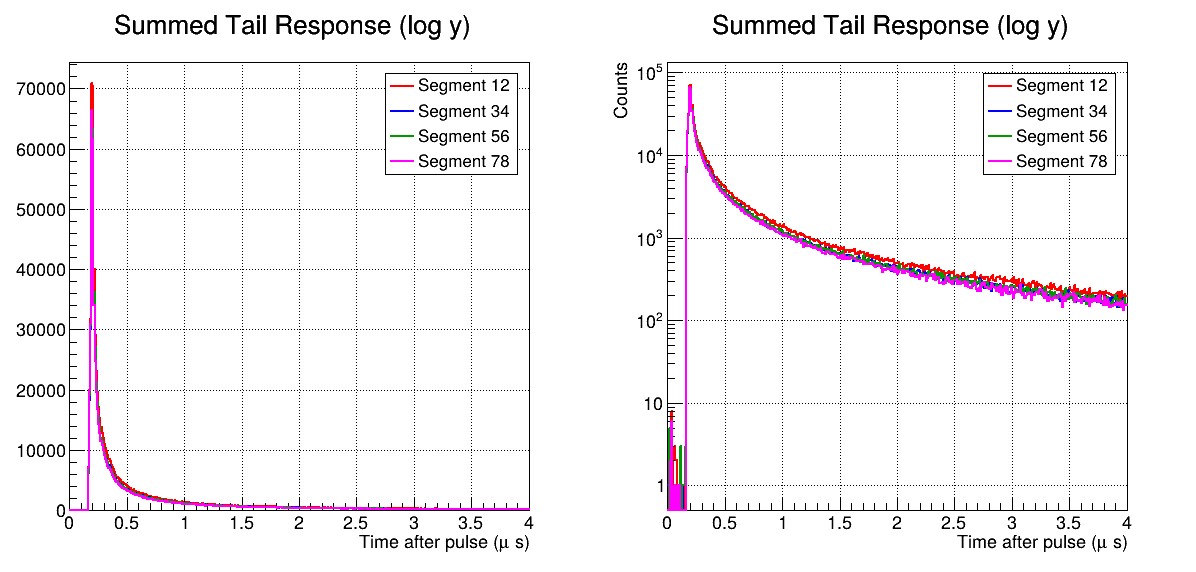
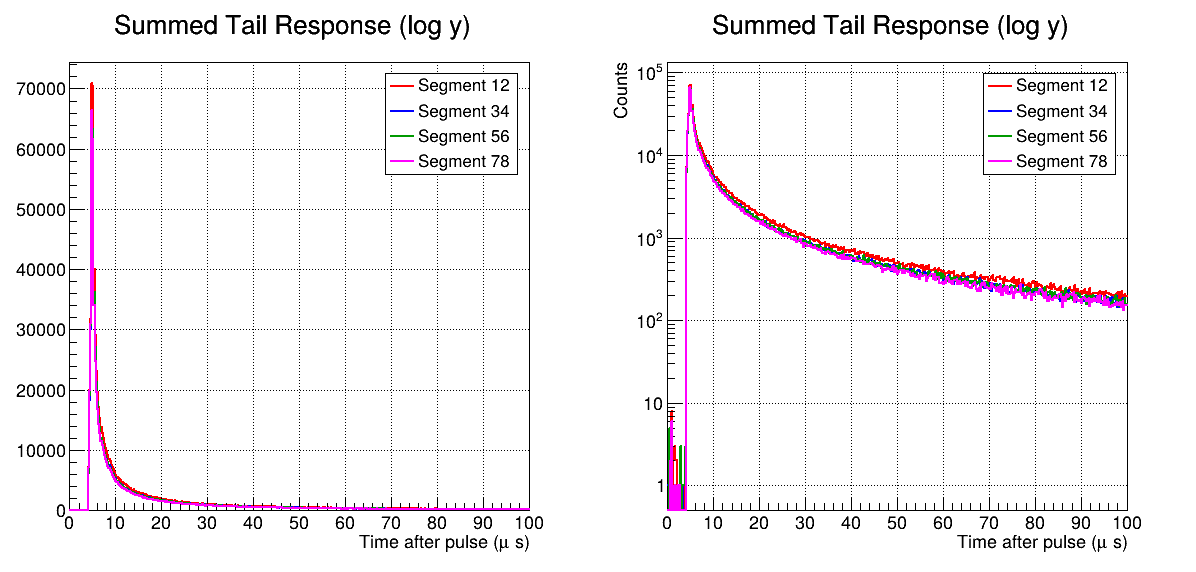
testing plotting August 19, 2025

diff --git a/include/Pulse_Fitting.h b/include/Pulse_Fitting.h
@@ -25,7 +25,7 @@ double getLogLambda(double lam);
 class Pulse_Fitting {
     public:
         // events: raw PE hits (list of 'event'); binWidth: coarse hist bin (us); minGap: break windows (us)
-        Pulse_Fitting(const EventList& events, double binWidth = 1.0, double minGap = 50.0);
+        Pulse_Fitting(const EventList& events, double binWidth = 0.25, double minGap = 40.0);
         void setBinWidths(double coarse_us, double fine_us) {binWidth_ = coarse_us; fineBinWidth_ = fine_us; }
         void setSegmentId(int seg) { segmentId_ = seg; }
 

diff --git a/src/PDF_Lookup.cpp b/src/PDF_Lookup.cpp
@@ -47,8 +47,8 @@ bool PDF_Lookup::load_csv(const std::string& path) {
     if (cols[0].size() < 100) return false;
 
     const vector<double>& t = cols[0];
-    double dt001 = (t.size() > 1) ? (t[1] - t[0]) : 1;
-    if (std::abs(dt001 - 1) > 1e-9) throw std::runtime_error("CSV time step not 1 us.");
+    double dt001 = (t.size() > 1) ? (t[1] - t[0]) : 0.25;
+    if (std::abs(dt001 - 0.25) > 1e-9) throw std::runtime_error("CSV time step not 0.25 us.");
 
     for (size_t c = 1; c < C; ++c) {
         int seg_id = parse_segment_name(headers[c]);
